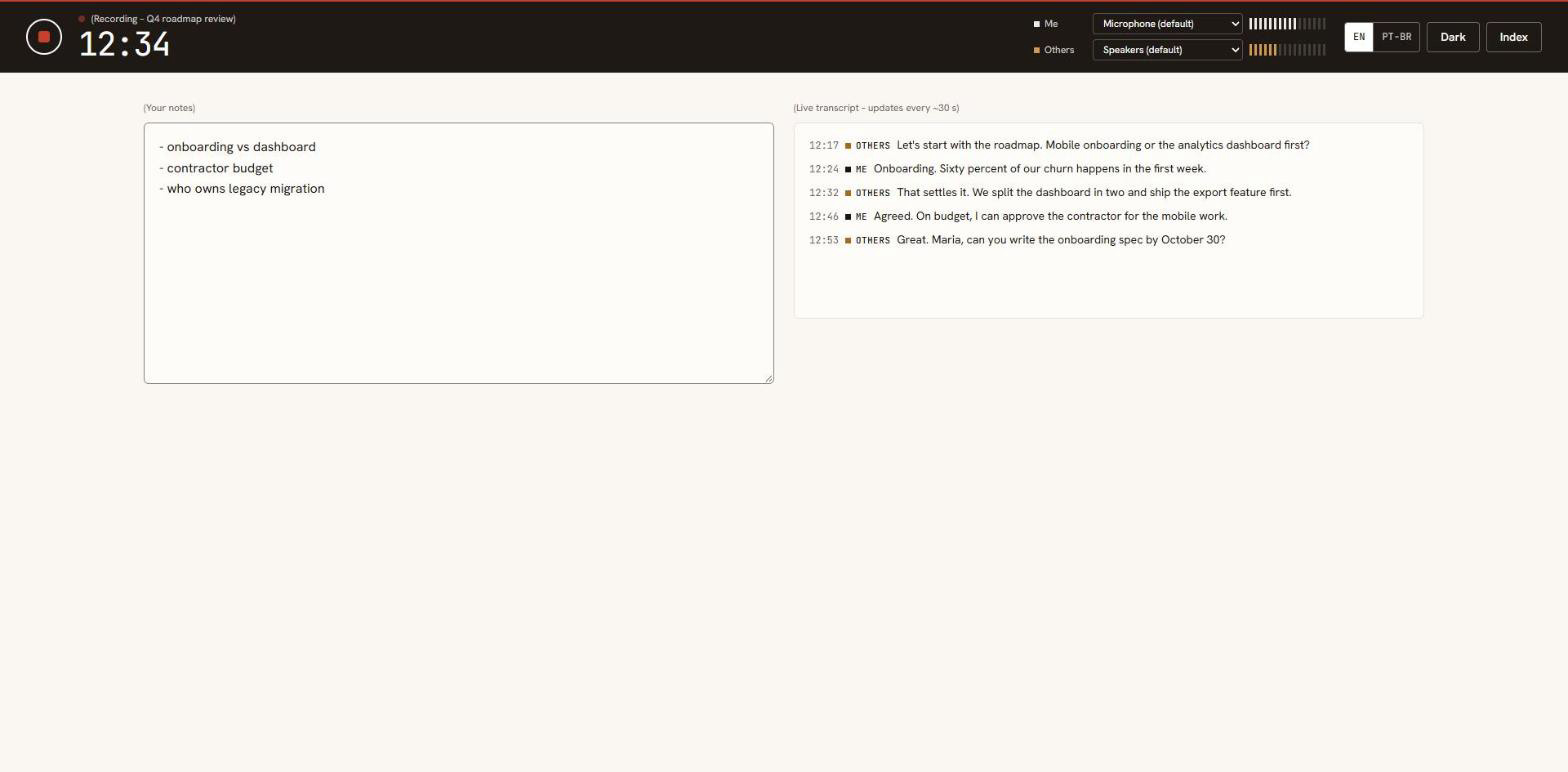
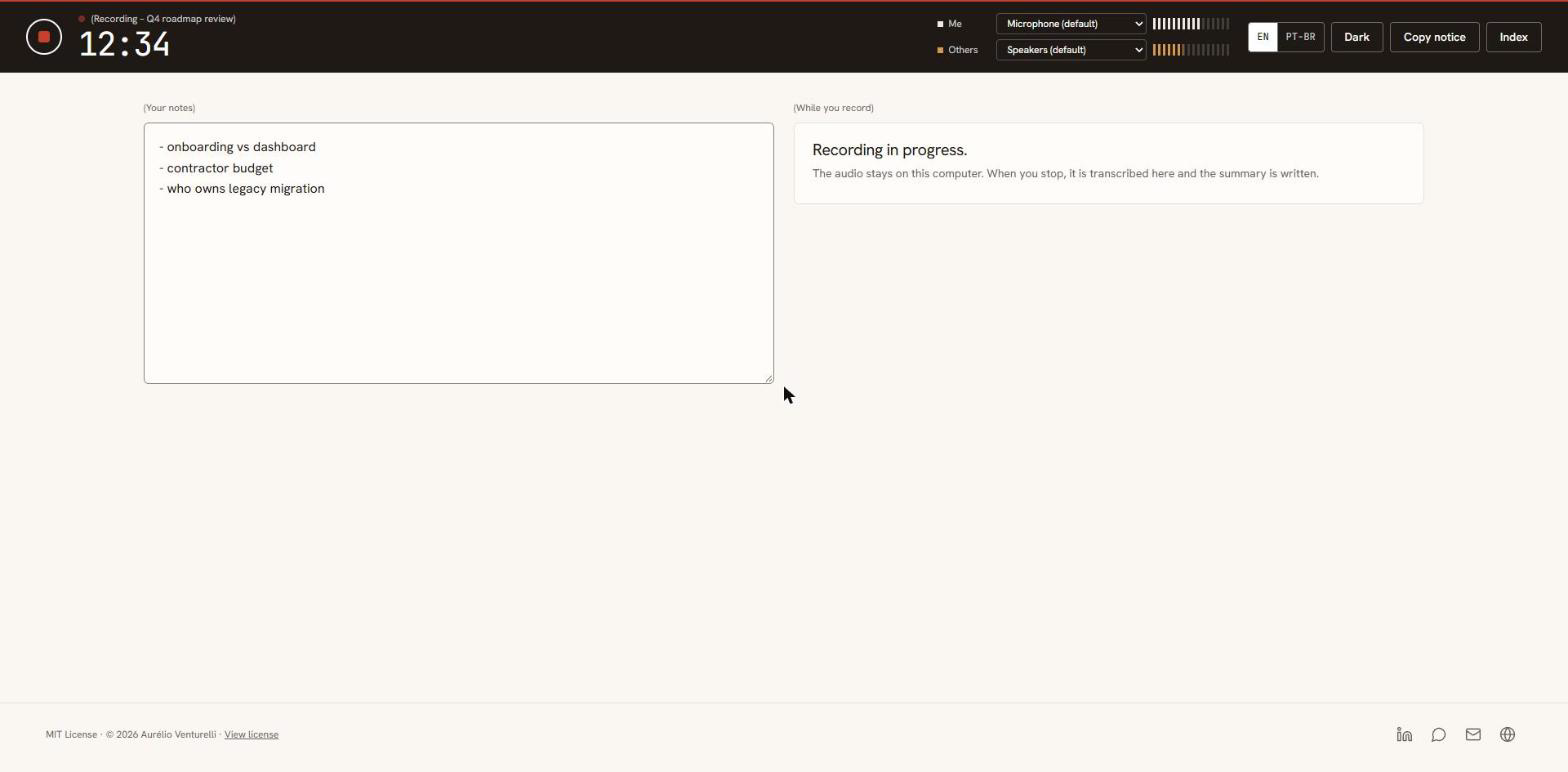
DEV-0063: Treat any unreadable Whisper output as a lost window, dedupe the Whisper vocabulary, retake the recording screenshot

diff --git a/tests/test_transcribe.py b/tests/test_transcribe.py
@@ -36,7 +36,8 @@ class TranscribeTest(unittest.TestCase):
 
     def test_a_clip_with_broken_utf8_or_json_is_read_leniently_or_skipped(self):
         for raw, expected in ((b'{"transcription": [{"offsets": {"from": 0}, "text": " Ol\xed mundo"}]}', ["Ol mundo"]),
-                              (b"not json at all \xed", None), (b'{"transcription": [{"text": "no offsets"}]}', None)):
+                              (b"not json at all \xed", None), (b"[]", None), (b"null", None),
+                              (b'{"transcription": [{"offsets": {"from": 0}, "text": null}]}', None), (b"[" * 100000, None), (b'{"transcription": [{"text": "no offsets"}]}', None)):
             with self.subTest(raw=raw[:20]), tempfile.TemporaryDirectory() as tmp:
                 clip = Path(tmp) / "mic.wav"
                 (Path(tmp) / "mic-out.json").write_bytes(raw)
@@ -108,6 +109,9 @@ class TranscribeTest(unittest.TestCase):
         with mock.patch.object(transcribe.privacy, "glossary", return_value=["GCP", "Control-M"]), \
                 mock.patch.object(transcribe.privacy, "terms", return_value=["Acme", "GCP"]):
             self.assertEqual(transcribe.vocabulary(), "GCP, Control-M, Acme")
+        with mock.patch.object(transcribe.privacy, "glossary", return_value=["acme"]), \
+                mock.patch.object(transcribe.privacy, "terms", return_value=["Acme"]):
+            self.assertEqual(transcribe.vocabulary(), "acme")
 
     def test_window_prompt_has_the_vocabulary_and_the_tail_of_the_previous_window(self):
         calls = []

diff --git a/metranscript/transcribe.py b/metranscript/transcribe.py
@@ -164,7 +164,10 @@ def pick_cut(spans: list[tuple[float, float]], duration: float) -> float:
 def vocabulary() -> str:
     """The user's glossary and protected terms, so Whisper spells them right."""
     out = ""
-    for term in dict.fromkeys([*privacy.glossary(), *privacy.terms()]):
+    unique = {}
+    for term in [*privacy.glossary(), *privacy.terms()]:
+        unique.setdefault(term.casefold(), term)  # "acme" and "Acme" are one term
+    for term in unique.values():
         if len(out) + len(term) + 2 > VOCAB_MAX:
             break
         out += (", " if out else "") + term
@@ -193,10 +196,10 @@ def transcribe_clip(clip: Path, spans: list[tuple[float, float]], cut: float, la
         args += ["--prompt", prompt]
     _run(args, timeout=300)
     # whisper.cpp can cut a multibyte character in half inside a loop of garbage; decode leniently so one bad clip never stops the meeting.
-    raw = base.with_suffix(".json").read_bytes().decode("utf-8", errors="replace")
     try:
+        raw = base.with_suffix(".json").read_bytes().decode("utf-8", errors="replace")
         return parse_whisper(json.loads(raw), offset, who)
-    except (json.JSONDecodeError, KeyError, TypeError):
+    except (OSError, ValueError, KeyError, TypeError, AttributeError, RecursionError):
         raise RuntimeError("whisper-cli wrote output that could not be read") from None
 
 
